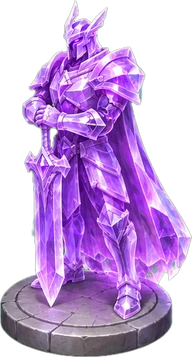
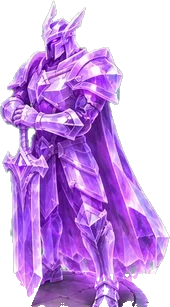
試吓移除神像畫上嘅底座（直接企喺島上）；人仔同冰狼改喺神像內圈行，唔再穿過神像
Claude-Session: https://claude.ai/code/session_01E2utfFQBUZUAHLnSXfgdjb

diff --git a/components/city-scene.ts b/components/city-scene.ts
@@ -655,7 +655,7 @@ export function createCityScene(
       head.position.y = 0.34;
       g.add(head);
       island.add(g);
-      const walker: (typeof walkers)[number] = { g, a: (k2 / 4) * Math.PI * 2 + 0.3, speed: (k2 % 2 ? 1 : -1) * (0.07 + k2 * 0.012), r: 3.85 + (k2 % 2) * 0.12, phase: k2 * 1.7 };
+      const walker: (typeof walkers)[number] = { g, a: (k2 / 4) * Math.PI * 2 + 0.3, speed: (k2 % 2 ? 1 : -1) * (0.07 + k2 * 0.012), r: (showcase ? 1.45 : 3.85) + (k2 % 2) * 0.12, phase: k2 * 1.7 };
       walkers.push(walker);
       // Real little people walking (Sky 2026-10-01): the game's 3D characters with their own walk, in place of
       // the pegs. The peg stands in until the model has loaded.
@@ -707,7 +707,8 @@ export function createCityScene(
   // 冰牙守護獸 (Sky 2026-10-02, Meshy "Frostfang Guardian"): an ice wolf trotting round every page on four legs,
   // about as big as the characters. The model ships without a skeleton, so four leg bones are added here
   // (hips found from the mesh: legs hang below y -0.1, front legs ahead of z 0.1) and swung in a trot.
-  const wolf = { g: new T.Group(), a: 1.9, speed: -0.11, r: 3.35, model: null as any, legs: [] as any[] };
+  // 展示台 (Sky 2026-10-08): everyone walks the ring inside the statues and never through them.
+  const wolf = { g: new T.Group(), a: 1.9, speed: -0.11, r: showcase ? 1.75 : 3.35, model: null as any, legs: [] as any[] };
   if (theme.art) {
     island.add(wolf.g);
     loadGltfLoader(T)
@@ -1089,7 +1090,10 @@ export function createCityScene(
     const now = performance.now();
     near.forEach((w, k) => {
       const side = k ? 1 : -1;
-      const to: [number, number] = [px + tx * side * 0.85 + ox * 0.7, pz + tz * side * 0.85 + oz * 0.7];
+      // On the 展示台 they hammer in front of the statue (the side facing the middle), so they never walk through it.
+      const to: [number, number] = showcase
+        ? [px + tx * side * 0.55 - ox * 0.75, pz + tz * side * 0.55 - oz * 0.75]
+        : [px + tx * side * 0.85 + ox * 0.7, pz + tz * side * 0.85 + oz * 0.7];
       const from: [number, number] = [w.g.position.x, w.g.position.z];
       const walk = Math.min(900, Math.max(300, (Math.hypot(to[0] - from[0], to[1] - from[1]) / 4) * 1000));
       w.job = { plot: i, at: now, from, to, walk, work: Math.max(CLOUD_END + 300, walk + 1300), struck: -1 };

diff --git a/lib/themes.ts b/lib/themes.ts
@@ -93,11 +93,11 @@ export const CRYSTAL: Theme = {
       observatory: [[94, 98], [130, 154], [179, 268], [242, 360], [300, 474]],
       tower: [[98, 173], [132, 270], [171, 379], [189, 460], [255, 560]],
       palace: [[143, 180], [194, 235], [218, 346], [259, 425], [300, 515]],
-      knight: [[129, 157], [159, 265], [168, 312], [197, 368], [253, 490]],
-      goddess: [[134, 202], [148, 251], [157, 313], [190, 379], [260, 490]],
-      titan: [[133, 195], [157, 259], [147, 286], [184, 355], [300, 496]],
+      knight: [[129, 157], [159, 265], [149, 269], [177, 304], [252, 392]],
+      goddess: [[134, 202], [148, 251], [157, 262], [190, 305], [259, 392]],
+      titan: [[133, 195], [157, 259], [144, 248], [180, 301], [300, 406]],
       dragon: [[114, 138], [138, 208], [142, 258], [172, 329], [300, 477]],
-      lion: [[131, 171], [151, 220], [167, 264], [204, 336], [300, 484]],
+      lion: [[131, 171], [151, 220], [167, 227], [202, 272], [291, 387]],
     },
   },
 };

diff --git a/public/sw.js b/public/sw.js
@@ -1,5 +1,5 @@
 // 大富翁 service worker: keeps the app shell and art so the board opens without a network.
-const CACHE = "dafuweng-v228";
+const CACHE = "dafuweng-v229";
 const SHELL = [
   "/",
   "/manifest.webmanifest",
